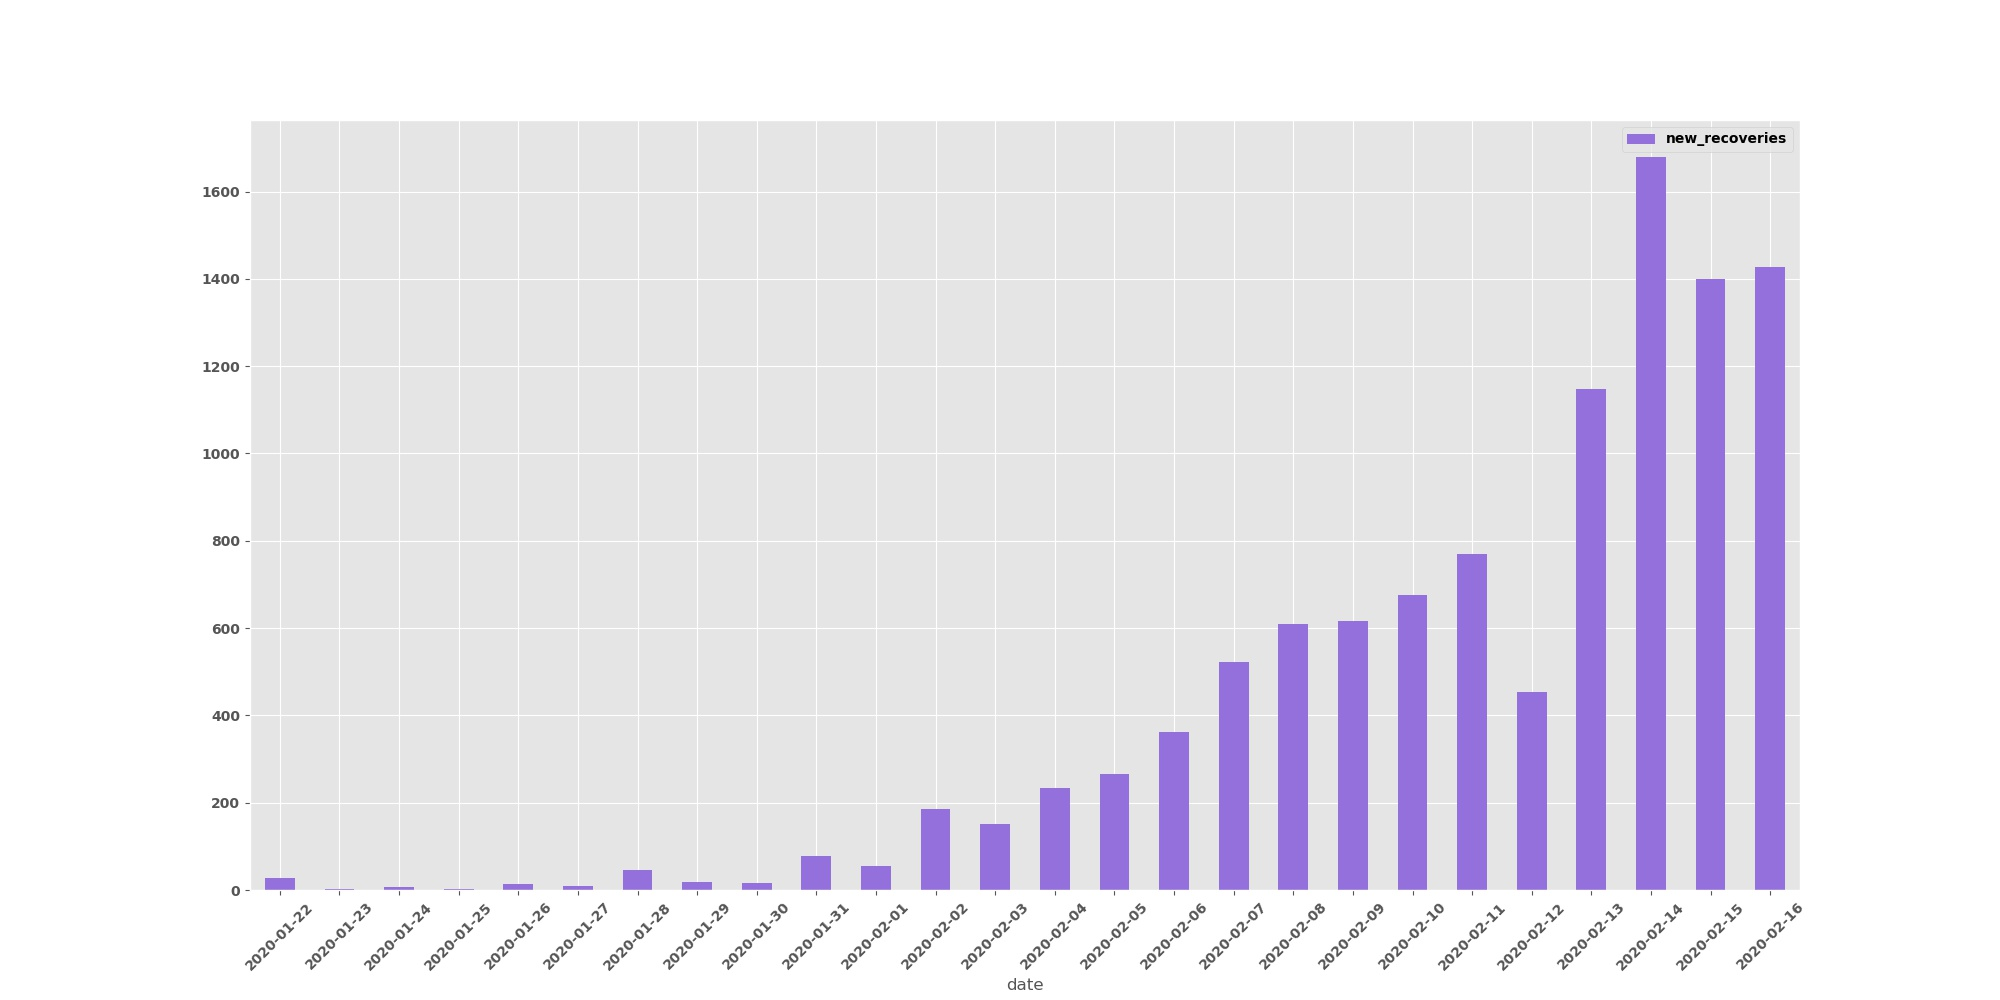
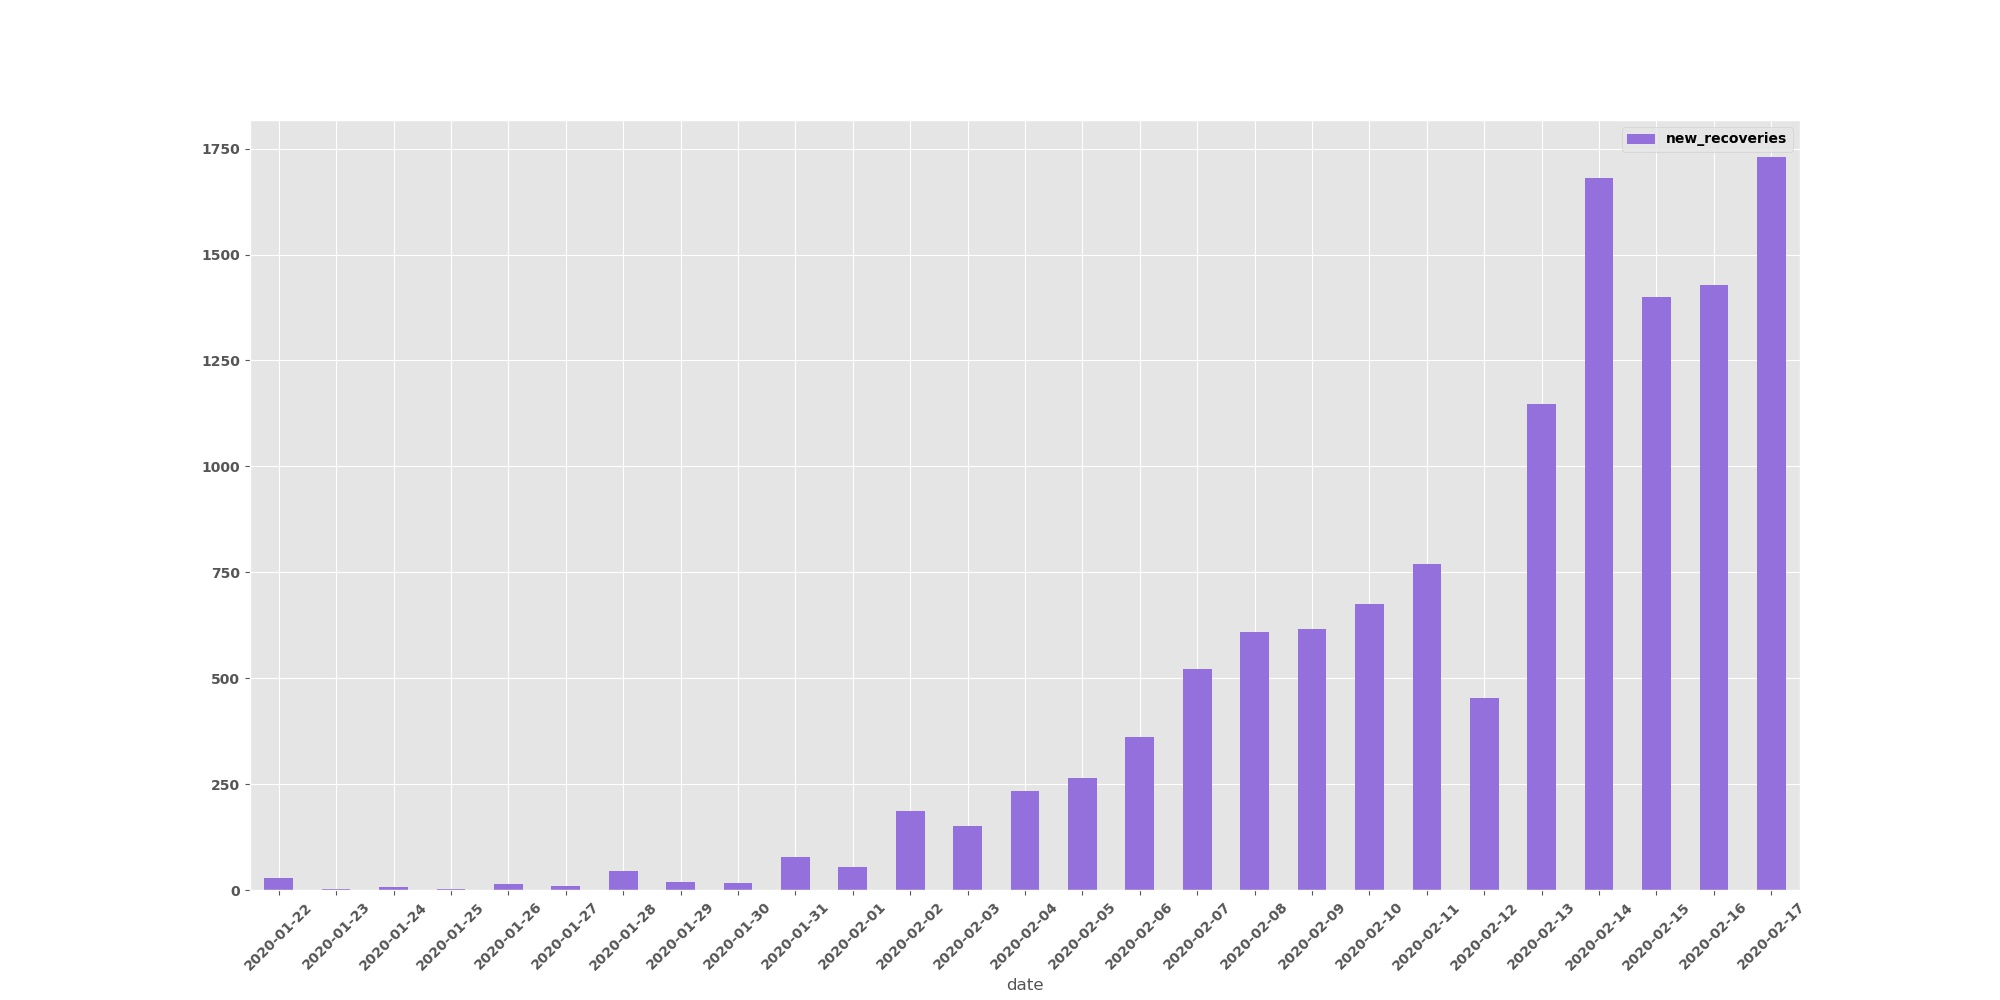
ADD - added report for the 17th

diff --git a/README.md b/README.md
@@ -25,7 +25,7 @@ This plots will be updated <u>daily</u> to visualize the trend in accumalitive s
 - **<i>Deaths</i>**
 - **<i>Recoveries.</i>**
 
-Last updated: `2020-02-17`
+Last updated: `2020-02-18`
 
 **Trend Line**
 
